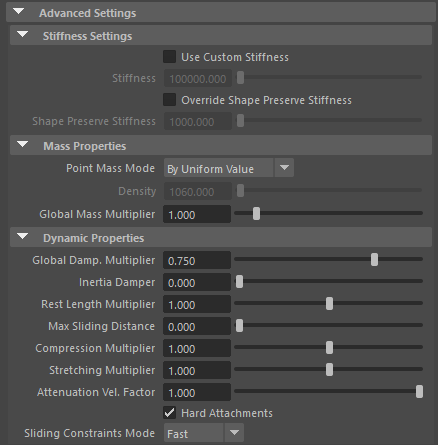
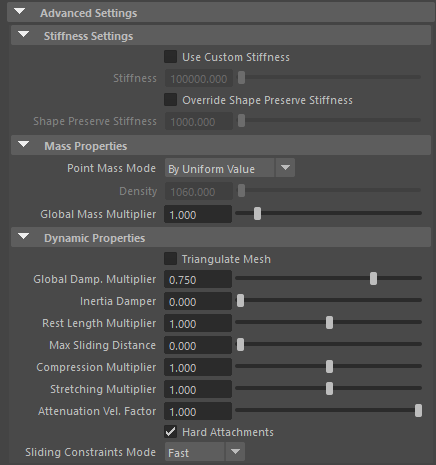
Completed docs for 1253 for all deformers for triangulate simulation feature

diff --git a/docs/maya/simshape.md b/docs/maya/simshape.md
@@ -207,7 +207,8 @@ To better visualise deformer constraints and attributes in the Maya viewport the
 
 To enable the debugger the *Debug* checkbox must be marked. To select the specific feature to visualise, choose it from the list provided in *Features*. The features that can be visualised with the debugger in the AdnSimshape deformer are:
 
-- **Muscle Fibers**: For each vertex, a line will be drawn showing the direction of the muscle fibers. The debug lines will only be displayed in case muscle activations have been enabled with an AdonisFX Muscle Patches file.
+ - **Distance Constraints**: For each connected vertex pairs forming the constraint a line will be drawn. If the "Triangulate Mesh" option is disabled the debugged lines will align with the edges of the simulated mesh. If the "Triangulate Mesh" option is enabled the debugged lines will align with the edges of the underlying triangulation of the simulated mesh without necessarily being aligned with the edges of the mesh.
+ - **Muscle Fibers**: For each vertex, a line will be drawn showing the direction of the muscle fibers. The debug lines will only be displayed in case muscle activations have been enabled with an AdonisFX Muscle Patches file.
  - **Shape Preservation**: For each vertex with a shape preservation weight greater than 0.0, a line will be drawn from each adjacent vertex to the opposite adjacent vertex.
  - **Slide Collision Constraints**: For each vertex, a line will be drawn from the mesh to the closest point of a collider. The debug lines will only be displayed in case collisions are enabled and colliders have been set up.
  - **Sliding Surface On Collider**: For each vertex, lines will outline the collider triangles within the reach of its *Max Sliding Distance*
@@ -215,8 +216,18 @@ To enable the debugger the *Debug* checkbox must be marked. To select the specif
 Enabling the debugger and selecting one of these constraints will draw lines from the influenced vertices in the simulated mesh to their corresponding reference vertices. 
 
 <figure markdown>
-![skin editor debug menu](images/simshape_debug.png)
+![simshape editor debug menu](images/simshape_debug.png)
 <figcaption><b>Figure 6</b>: AdnSimshape Slide Collision Constraints, Muscle Fibers, Sliding Surface On Collider and Shape Preservation debugging.</figcaption>
+</figure>
+
+<figure markdown>
+  ![simshape editor distance constraint debug](images/simshape_dist_constr_debug.png)
+  <figcaption><b>Figure 7</b>: In gray the target mesh, in red the simulated simshape skin. Debugger enabled displaying the <i>Distance Constraints</i> coloured in blue with "Triangulate Mesh" option disabled (Left) and enabled (Right).</figcaption>
+</figure>
+
+<figure markdown>
+  ![simshape editor shape preservation constraint debug](images/simshape_shape_preserve_constr_debug.png)
+  <figcaption><b>Figure 8</b>: In gray the target mesh, in red the simulated simshape skin. Debugger enabled displaying the <i>Shape Preservation Constraints</i> coloured in blue with "Triangulate Mesh" option disabled (Left) and enabled (Right).</figcaption>
 </figure>
 
 ## Advanced
@@ -226,7 +237,7 @@ AdnSimshape can emulate the behaviour of facial muscles by computing the muscle 
 
 <figure markdown>
   ![Activation modes from attribute editor](images/activation_modes.png)
-  <figcaption><b>Figure 7</b>: Activation Modes switch exposed in the Attribute Editor.</figcaption>
+  <figcaption><b>Figure 9</b>: Activation Modes switch exposed in the Attribute Editor.</figcaption>
 </figure>
 
 > [!NOTE = Activation Modes]
@@ -258,7 +269,7 @@ The Learn Muscle Patches tool allows the user to generate the AMP file:
 
 <figure style="width: 50%; padding-left: 5px;">
   <img src="images/simshape_ml_window.png" caption="Learn Muscle Patches UI"> 
-  <figcaption><b>Figure 8</b>: Learn Muscle Patches UI.</figcaption>
+  <figcaption><b>Figure 10</b>: Learn Muscle Patches UI.</figcaption>
 </figure>
 
 1. Open the **Learn Muscle Patches UI**. Using the shelf button ![Learn Muscle Patches icon](images/adn_learn_muscle_patches.png){style="width:4%"} or go to the Edit Simshape submenu from the AdonisFX menu and press *Learn Muscle Patches UI*.
@@ -272,7 +283,7 @@ The Learn Muscle Patches tool allows the user to generate the AMP file:
 <br>
 <figure style="width: 50%;" markdown>
   ![Simshape draw muscle patches example](images/simshape_debug_amp.png)
-  <figcaption><b>Figure 9</b>: Example of muscle patches generated with the Learn Muscle Patches UI.</figcaption>
+  <figcaption><b>Figure 11</b>: Example of muscle patches generated with the Learn Muscle Patches UI.</figcaption>
 </figure>
 
 Additional custom settings for the learning algorithm:
@@ -290,7 +301,7 @@ AdnSimshape integrates a debug mode to visualise the activations during the simu
 
 <figure style="width: 50%" markdown>
   ![Learn Muscle Patches UI window](images/nassim_debug.png)
-  <figcaption><b>Figure 10</b>: Example of AdnSimshape running in Debug mode.</figcaption>
+  <figcaption><b>Figure 12</b>: Example of AdnSimshape running in Debug mode.</figcaption>
 </figure>
 
 

diff --git a/docs/maya/muscle.md b/docs/maya/muscle.md
@@ -185,7 +185,7 @@ To enable the debugger the *Debug* checkbox must be marked. To select the specif
 
  - **Attachments To Geometry**: For each vertex with a geometry attachment constraint weight greater than 0.0, a line will be drawn from the mesh vertex to its respective geometry target closest point at rest.
  - **Attachments To Transform**: For each vertex with a transform attachment constraint weight greater than 0.0, a line will be drawn from the mesh vertex to its respective transform target.
-  - **Distance Constraints**: For each connected vertex pairs forming the constraint a line will be drawn. If the "Triangulate Mesh" option is disabled the debugged lines will align with the edges of the simulated mesh. If the "Triangulate Mesh" option is enabled the debugged lines will align with the edges of the underlying triangulation of the simulated mesh without necessarily being aligned with the edges of the mesh.
+  - **Fiber Constraints**: For each connected vertex pairs forming the constraint a line will be drawn. If the "Triangulate Mesh" option is disabled the debugged lines will align with the edges of the simulated mesh. If the "Triangulate Mesh" option is enabled the debugged lines will align with the edges of the underlying triangulation of the simulated mesh without necessarily being aligned with the edges of the mesh.
  - **Muscle Fibers**: For each vertex, a line will be drawn showing the direction of the muscle fibers.
  - **Shape Preservation**: For each vertex with a shape preservation weight greater than 0.0, a line will be drawn from each adjacent vertex to the opposite adjacent vertex.
  - **Slide On Geometry**: If the *Max Sliding Distance* value is greater than 0.0, for each vertex with a slide on geometry weight greater than 0.0, a line will be drawn from the mesh vertex to the closest point on its respective geometry target.
@@ -194,6 +194,16 @@ To enable the debugger the *Debug* checkbox must be marked. To select the specif
 <figure markdown>
   ![AdnMuscle debug](images/muscle_debug.png)
   <figcaption><b>Figure 9</b>: AdnMuscle debug features. From left to right: Muscle Fibers, Attachment To Transform Constraints, Slide On Segment Constraints, Attachment To Geometry Constraints, Slide On Geometry Constraints and Shape Preservation.</figcaption>
+</figure>
+
+<figure markdown>
+  ![muscle editor fiber constraint debug](images/muscle_dist_constr_debug.png)
+  <figcaption><b>Figure 10</b>: In gray the target mesh, in red the simulated muscle. Debugger enabled displaying the <i>Fiber Constraints</i> coloured in blue with "Triangulate Mesh" option disabled (Left) and enabled (Right).</figcaption>
+</figure>
+
+<figure markdown>
+  ![muscle editor shape preservation constraint debug](images/muscle_shape_preserve_constr_debug.png)
+  <figcaption><b>Figure 11</b>: In gray the target mesh, in red the simulated muscle. Debugger enabled displaying the <i>Shape Preservation Constraints</i> coloured in blue with "Triangulate Mesh" option disabled (Left) and enabled (Right).</figcaption>
 </figure>
 
 ## Advanced

diff --git a/docs/maya/ribbon.md b/docs/maya/ribbon.md
@@ -196,6 +196,16 @@ Enabling the debugger and selecting one of these constraints will draw lines fro
   <figcaption><b>Figure 9</b>: AdnRibbonMuscle debug features. From left to right: Muscle Fibers, Attachment To Transform Constraints, Slide On Segment Constraints, Attachment To Geometry Constraints, Slide On Geometry Constraints and Shape Preservation.</figcaption>
 </figure>
 
+<figure markdown>
+  ![ribbon muscle editor fiber constraint debug](images/ribbon_muscle_dist_constr_debug.png)
+  <figcaption><b>Figure 10</b>: In gray the target mesh, in red the simulated ribbon muscle. Debugger enabled displaying the <i>Fiber Constraints</i> coloured in blue with "Triangulate Mesh" option disabled (Left) and enabled (Right).</figcaption>
+</figure>
+
+<figure markdown>
+  ![ribbon muscle editor shape preservation constraint debug](images/ribbon_muscle_shape_preserve_constr_debug.png)
+  <figcaption><b>Figure 11</b>: In gray the target mesh, in red the simulated ribbon muscle. Debugger enabled displaying the <i>Shape Preservation Constraints</i> coloured in blue with "Triangulate Mesh" option disabled (Left) and enabled (Right).</figcaption>
+</figure>
+
 ## Advanced
 
 ### Targets
